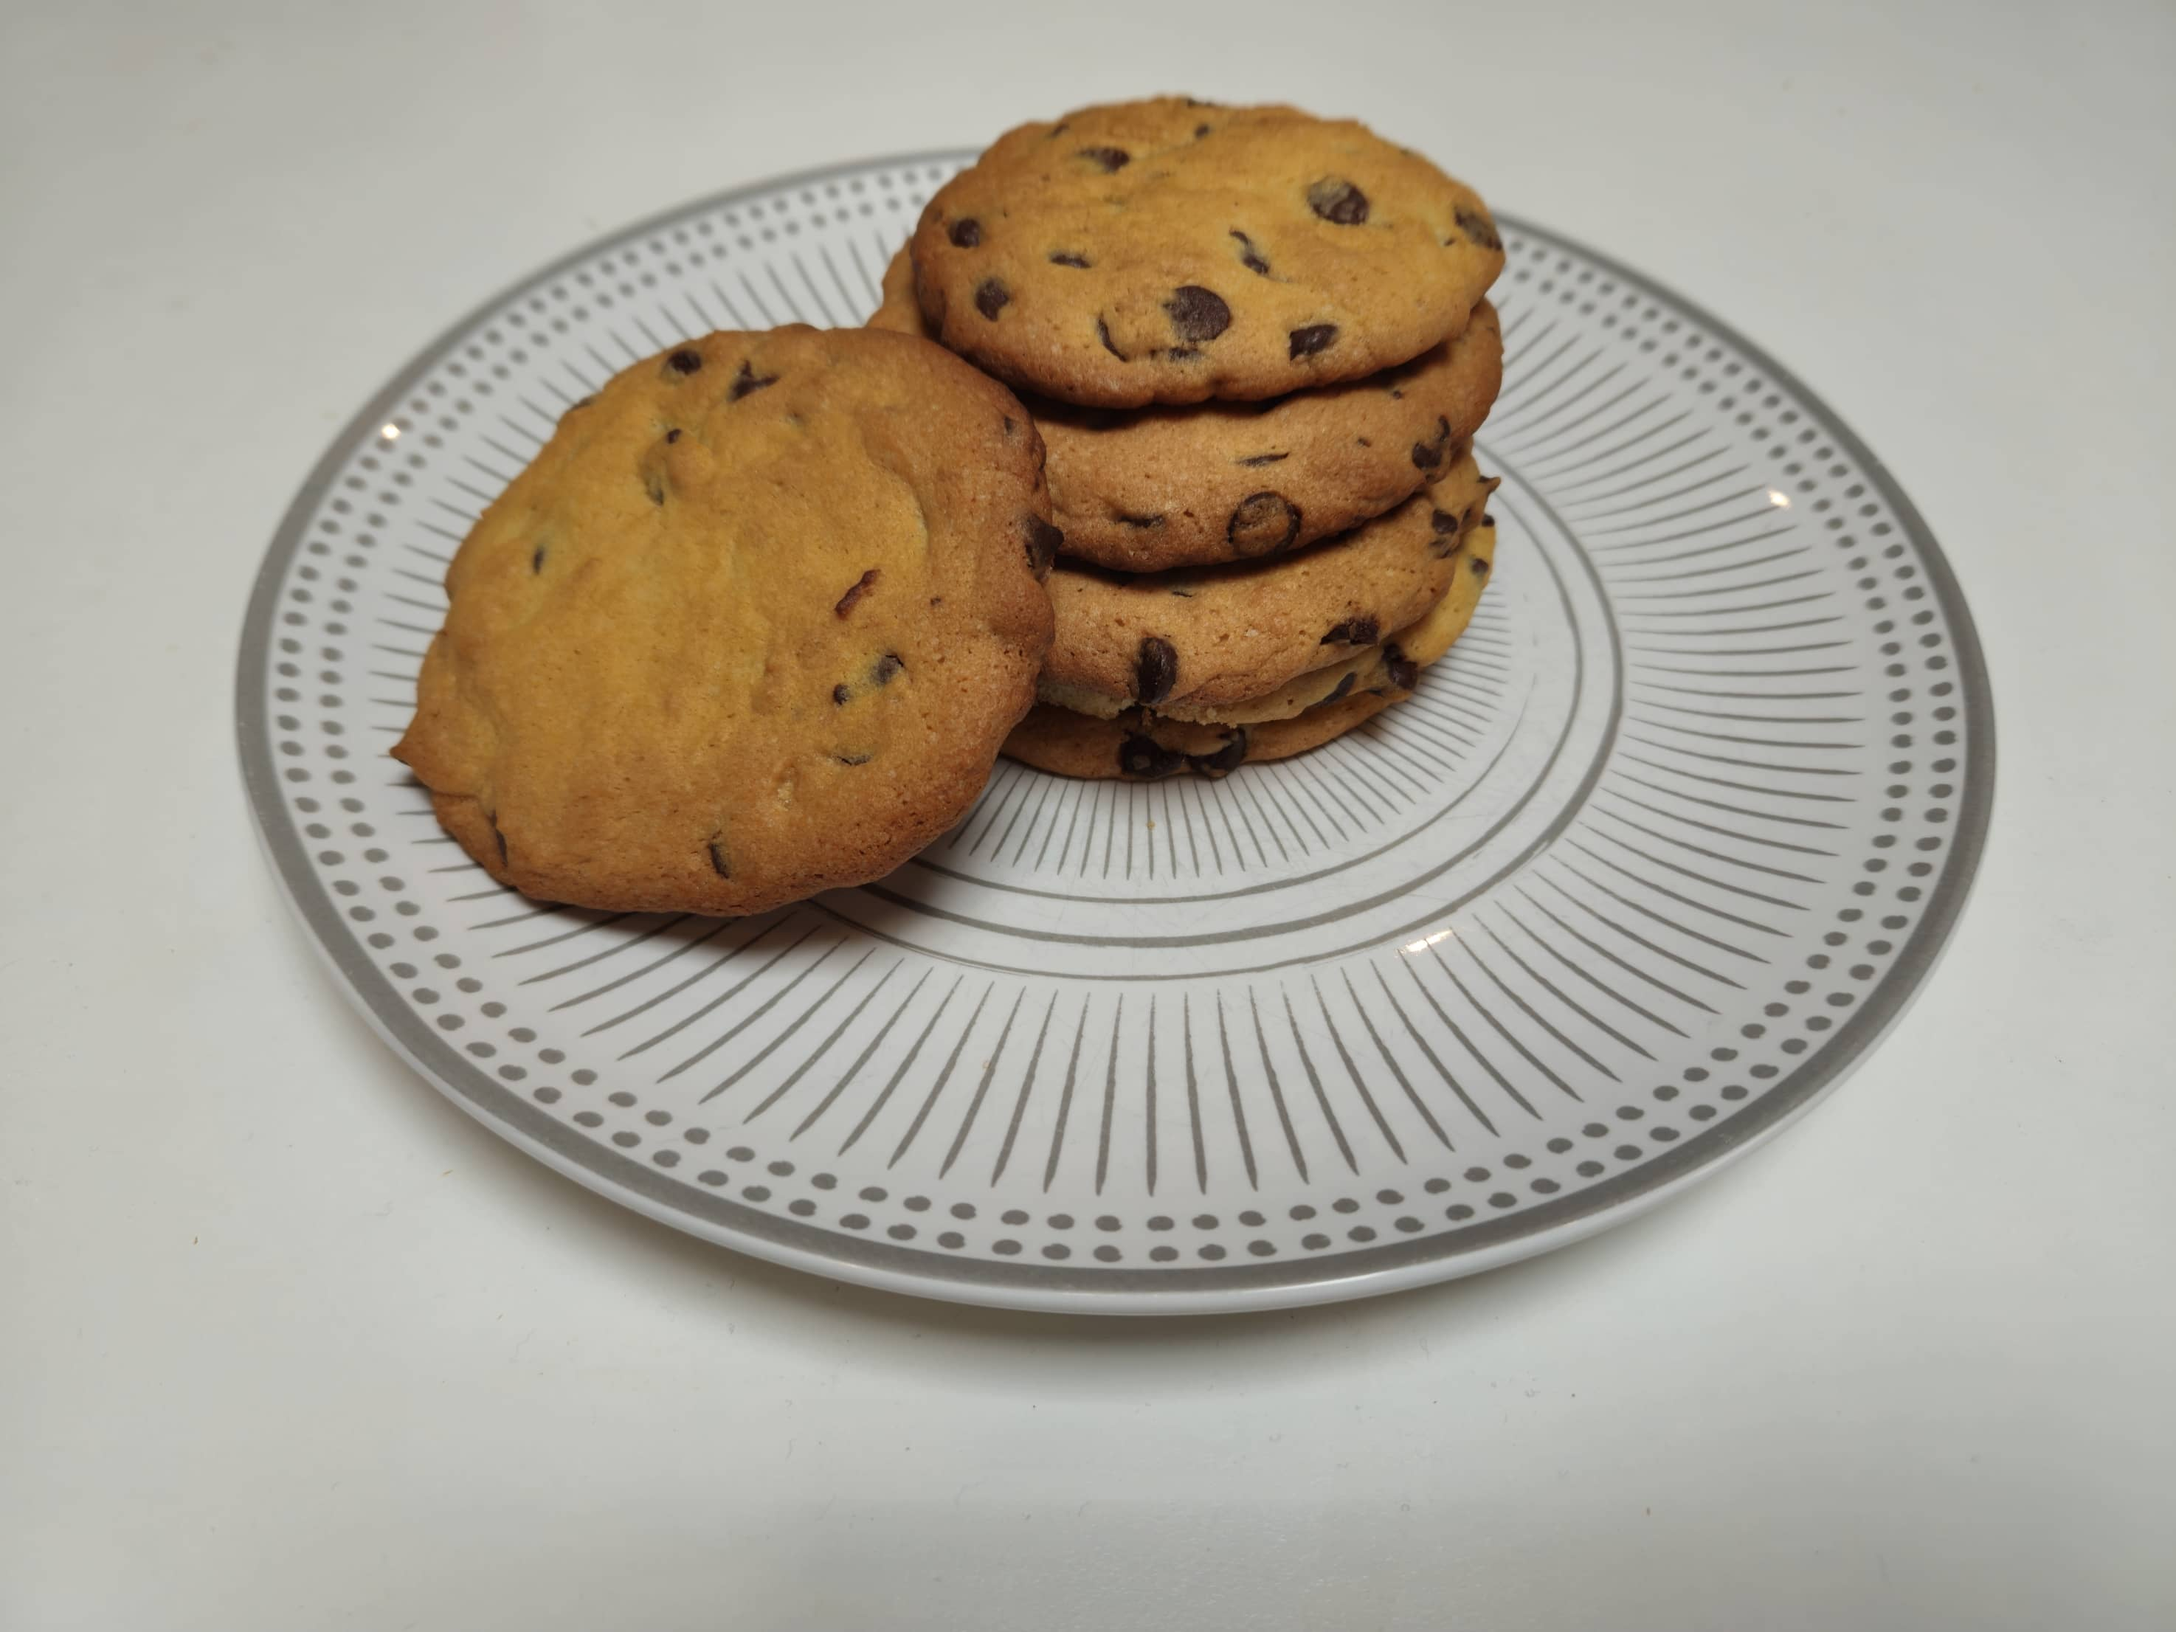
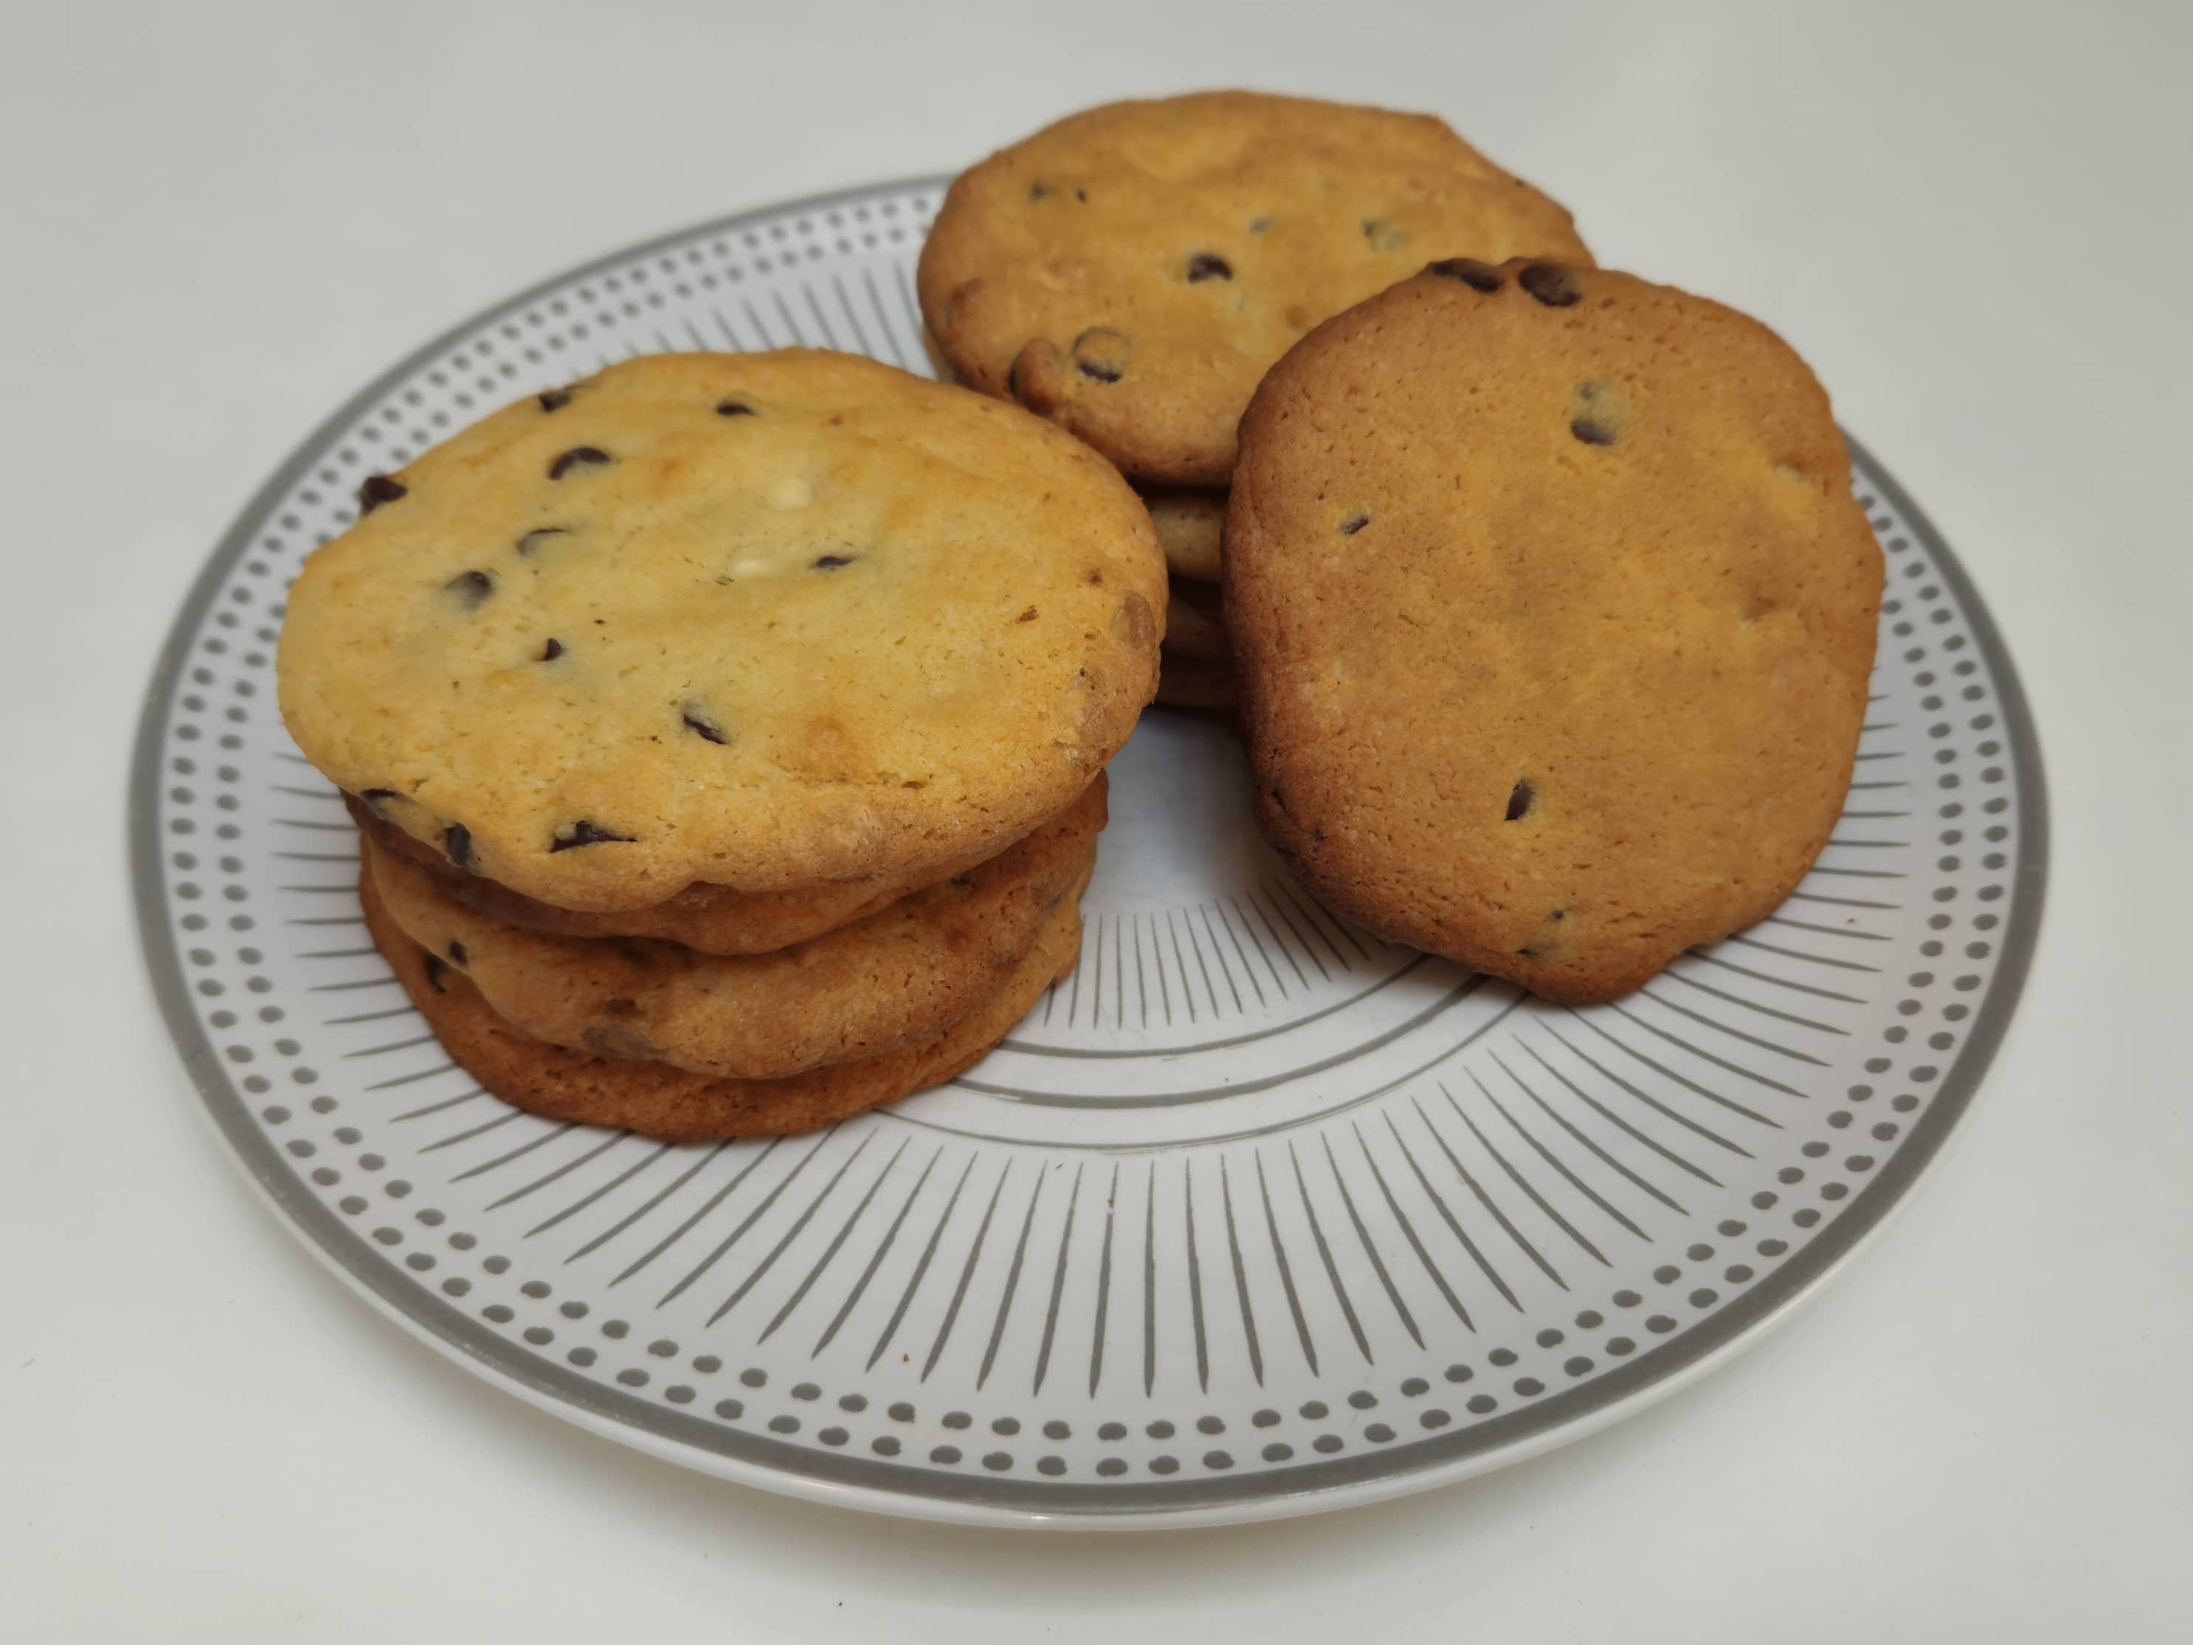
m

diff --git a/components/recettes_list4_dessert/Cookies.html b/components/recettes_list4_dessert/Cookies.html
@@ -48,7 +48,7 @@
     </p>
   </div>
   <div class="card_5img">
-    <img src="../../img/recettes_salades/salade_melon_avocat/final.jpg" />
+    <img src="../../img/recettes_desserts/ccokies/etape 2.jpg" />
   </div>
 </div>
 
